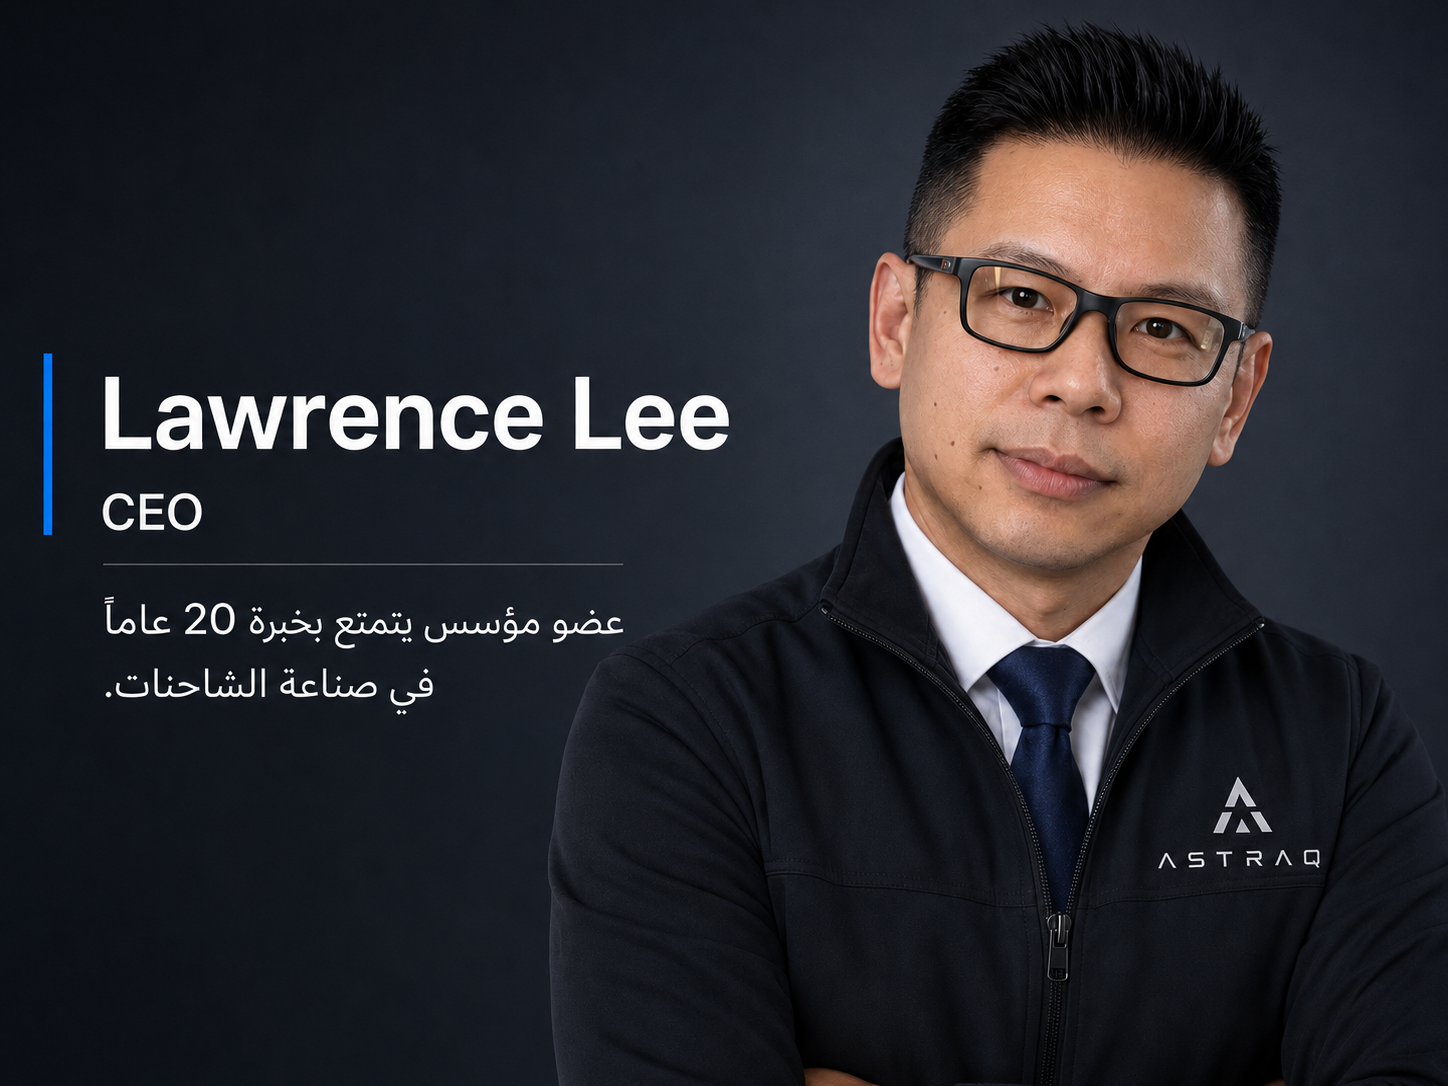
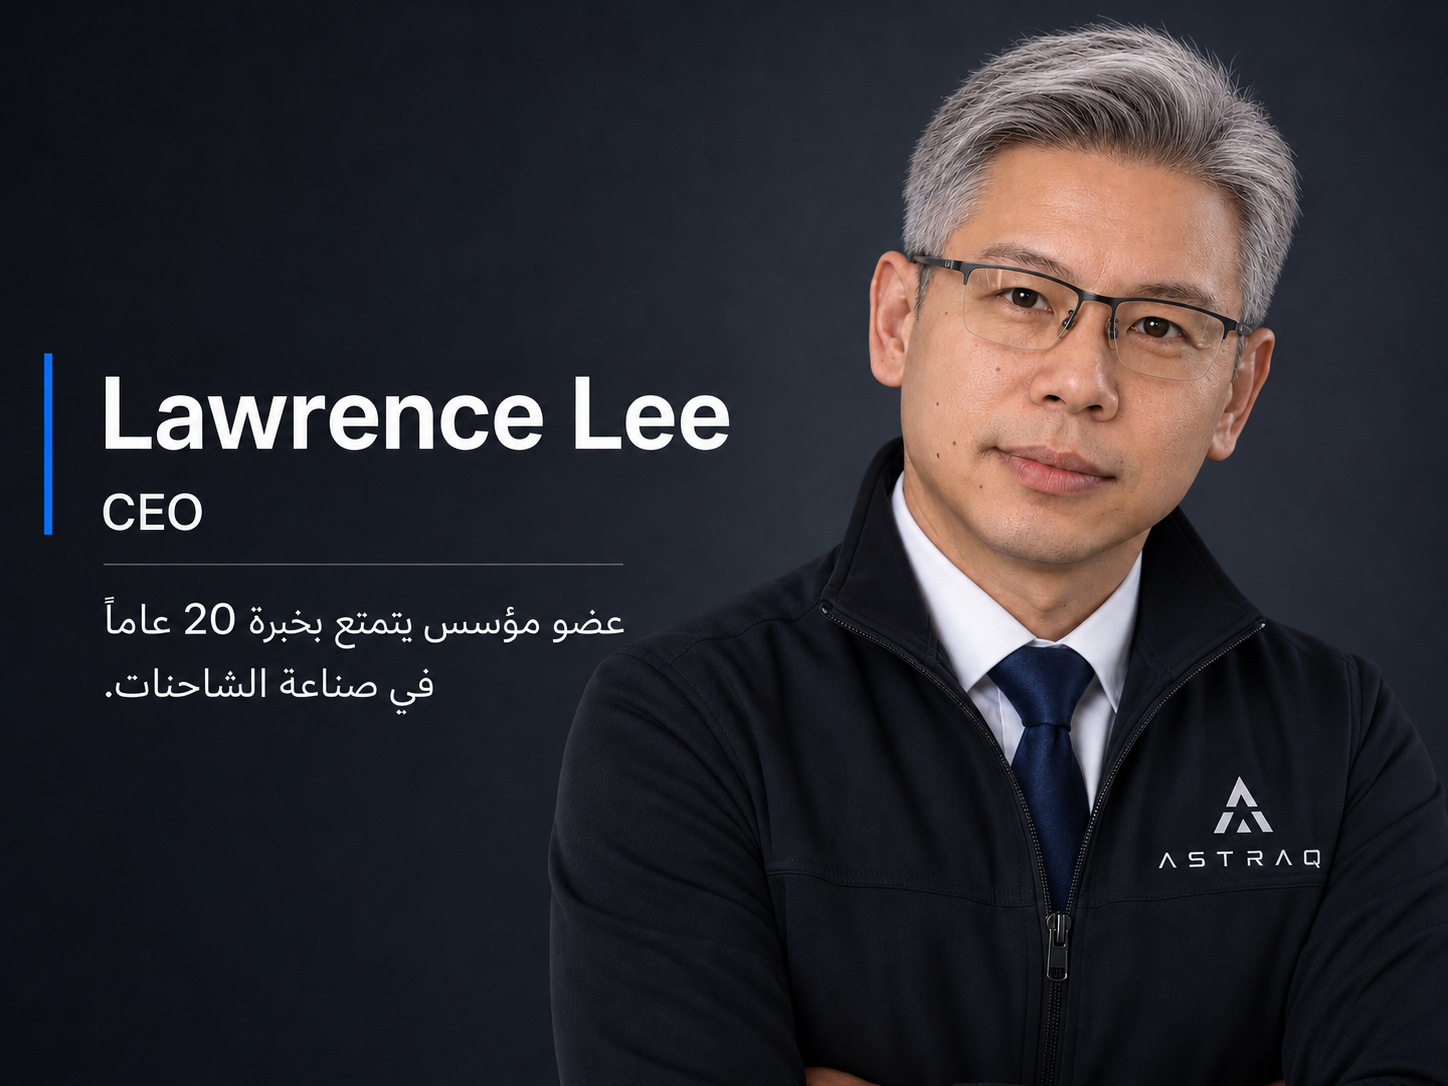
lawrence img

diff --git a/src/pages/About.tsx b/src/pages/About.tsx
@@ -135,16 +135,10 @@ const teamMembers = [
   {
     name: "Lawrence Lee",
     role: "CEO",
-    profile: {
-      portrait: "/images/about/Lawrence-2.png",
-      roleCn: "首席执行官",
-      biography: {
-        en: "Founding member with 20 years of experience in the truck industry.",
-        zh: "创始成员，深耕卡车行业20年。",
-        es: "Miembro fundador con 20 años de experiencia en la industria del camión.",
-        ar: "عضو مؤسس يتمتع بخبرة 20 عاماً في صناعة الشاحنات.",
-      },
-    },
+    image: "/images/about/Lawrence.png",
+    imageCn: "/images/about/Lawrence-cn.png",
+    imageEs: "/images/about/Lawrence-es.png",
+    imageAr: "/images/about/Lawrence-ar.png",
   },
   {
     name: "Wei Zhang",
@@ -595,54 +589,21 @@ export default function About() {
             {teamMembers.map((member) => (
               <div
                 key={member.name}
-                className="@container relative overflow-hidden bg-transparent shadow-2xl xl:first:col-start-2"
+                className="relative overflow-hidden bg-transparent shadow-2xl xl:first:col-start-2"
               >
-                {member.profile ? (
-                  <article
-                    dir="ltr"
-                    className="relative isolate flex flex-col justify-center bg-[#111923] px-[5.75%] py-2 text-white @min-[290px]:py-3"
-                    style={{ aspectRatio: isZh || isEs || isAr ? "4 / 3" : "1385 / 923" }}
-                  >
-                    <div
-                      className="absolute inset-y-0 right-0 -z-10 w-1/2 overflow-hidden"
-                      style={{ maskImage: "linear-gradient(to right, transparent, #000 22%)" }}
-                    >
-                      <img
-                        src={member.profile.portrait}
-                        alt=""
-                        className="absolute left-1/2 top-0 aspect-square h-full max-w-none -translate-x-1/2 object-cover"
-                      />
-                    </div>
-                    <div className="w-[52.5%]">
-                      <h3 className="border-l-2 border-[#28A7FF] pl-1.5 text-sm font-bold leading-tight @min-[290px]:text-lg @min-[430px]:text-2xl">
-                        {member.name}
-                      </h3>
-                      <p className="mt-1 pl-1.5 text-xs font-medium @min-[290px]:text-sm">
-                        {isZh ? member.profile.roleCn : member.role}
-                      </p>
-                      <p
-                        dir={isRtl ? "rtl" : "ltr"}
-                        className="mt-2 border-t border-white/30 pt-2 text-[11px] leading-snug text-[#F5F9FF] @min-[290px]:text-[13px] @min-[430px]:text-base"
-                      >
-                        {member.profile.biography[isZh || isEs || isAr ? language : "en"]}
-                      </p>
-                    </div>
-                  </article>
-                ) : (
-                  <img
-                    src={getTeamImage(
-                      member.image,
-                      member.imageCn,
-                      member.imageEs,
-                      member.imageAr
-                    )}
-                    alt={member.name}
-                    className="block h-auto w-full object-contain object-center"
-                    onError={(e) => {
-                      e.currentTarget.src = member.image;
-                    }}
-                  />
-                )}
+                <img
+                  src={getTeamImage(
+                    member.image,
+                    member.imageCn,
+                    member.imageEs,
+                    member.imageAr
+                  )}
+                  alt={member.name}
+                  className="block h-auto w-full object-contain object-center"
+                  onError={(e) => {
+                    e.currentTarget.src = member.image;
+                  }}
+                />
               </div>
             ))}
           </div>
